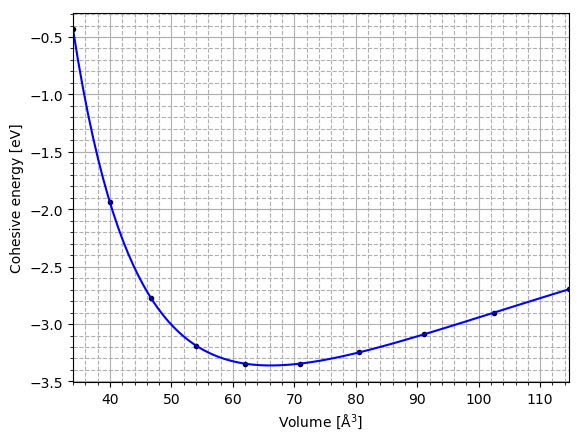
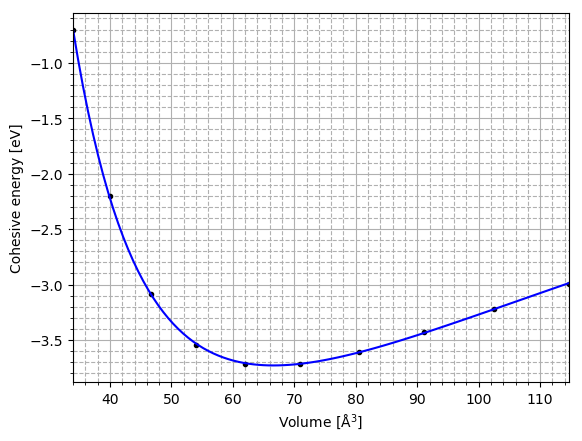
asdasd

Changed region(s): [[0.0619, 0.0295, 0.9897, 0.8549], [0.0619, 0.8549, 0.1237, 0.8844], [0.0619, 0.3243, 0.1237, 0.3537]]

diff --git a/HA4/code/fit_birch.py b/HA4/code/fit_birch.py
@@ -13,7 +13,7 @@ def main():
         for line in textfile:
             line = line.split(',')
             V.append(float(line[0]))
-            E_EAM.append(float(line[2]))
+            E_EAM.append(float(line[1]))
 
     V = np.asarray(V)
     E_EAM = np.asarray(E_EAM)
